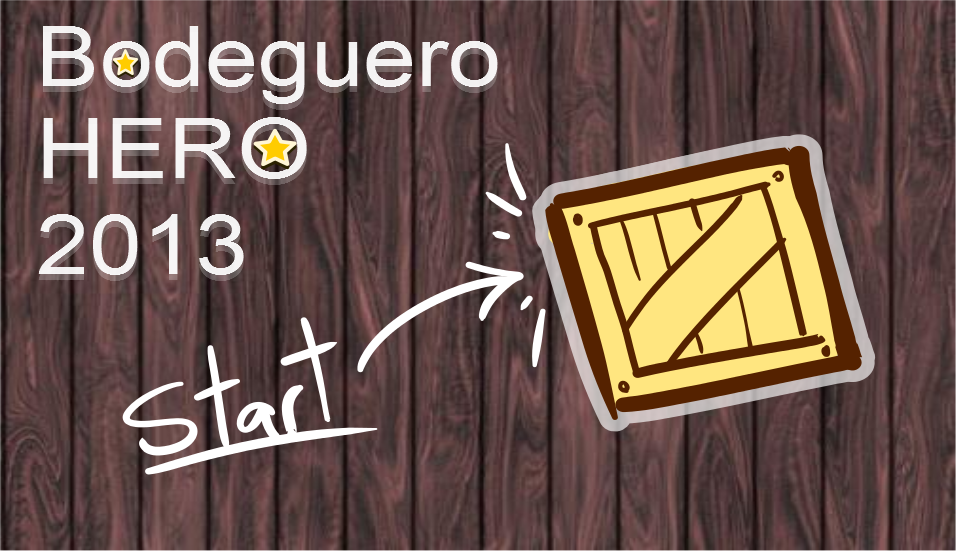
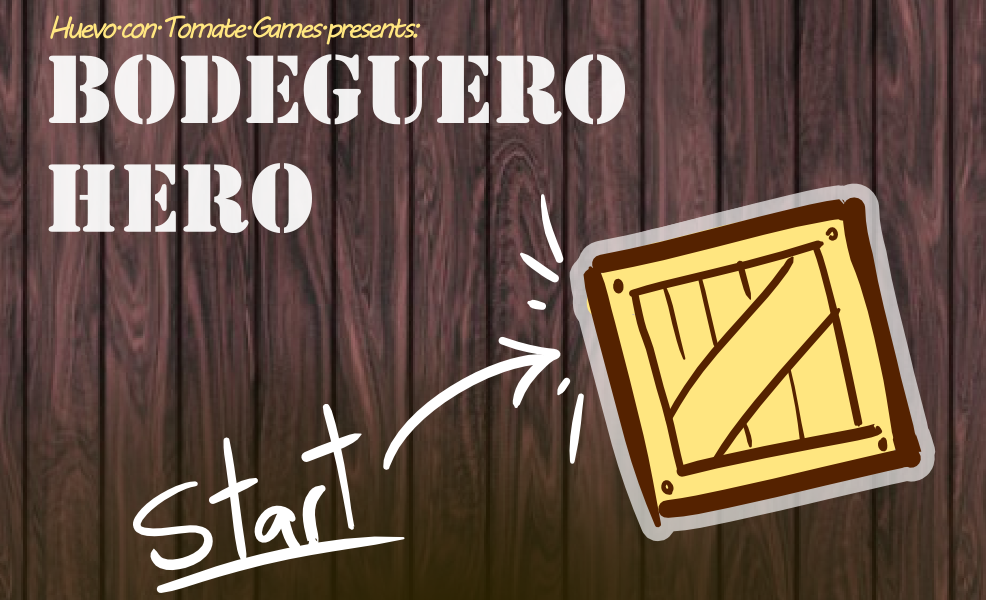
Modificaciones en Stylesheet e interfaz. Ciertas cosas de Refactor. Se hizo el boton que regrese atras y el que lleva al menu inicio. Se han modificado las imagenes de fondo y otras.

diff --git a/BodegueroHero/mainwindow.cpp b/BodegueroHero/mainwindow.cpp
@@ -69,22 +69,16 @@ void MainWindow::cargarPerfil()
 
 }
 
-void MainWindow::recibir(const QString & txt)
-{
-
-   this->CurrentUser=txt;
-   ui->screenManager->setCurrentIndex(0);
-
-}
-
-
-
-
 MainWindow::~MainWindow()
 {
     delete ui;            
 }
 
+void MainWindow::recibir(const QString & txt)
+{
+   this->CurrentUser=txt;
+   ui->screenManager->setCurrentIndex(0);
+}
 
 void MainWindow::on_pushButton_clicked()
 {
@@ -109,20 +103,30 @@ void MainWindow::on_btJugar_clicked()
     ui->screenManager->setCurrentIndex(4);
 }
 
-void MainWindow::on_btBack_clicked()
-{
-     ui->screenManager->setCurrentIndex(0);
-}
-
-void MainWindow::on_btnBackFromP4_clicked()
-{
-    //!!Comment: Moises
-    //Presione Back en la pagina4 (pantalla de dificultades)
-    //Regreso a la pantalla del menu de opciones (pagina1)
-    this->ui->screenManager->setCurrentIndex(1);
-}
-
 void MainWindow::on_cmdStart_clicked()
 {
     this->ui->screenManager->setCurrentIndex(1);
 }
+
+void MainWindow::on_actionHome_triggered()
+{
+    //EH: si esta en la pantalla de juegos preguntarle si quiere abandonar el juego.
+    this->ui->screenManager->setCurrentIndex(0);
+}
+
+void MainWindow::on_actionBack_triggered()
+{
+    int index = this->ui->screenManager->currentIndex();
+
+    if(index>0)
+    {
+        if(index == 7)// si esta en la pantalla de jugar
+        {
+            //EH: Preguntar si realmente quiere abandonar el juego.
+        }
+        else
+            //EH: Validar ciertas cosas, como dejar en blanco textbox, etc
+            this->ui->screenManager->setCurrentIndex(index-1);
+    }
+}
+

diff --git a/BodegueroHero/mainwindow.h b/BodegueroHero/mainwindow.h
@@ -23,9 +23,9 @@ private:
     Ui::MainWindow *ui;
 
 private slots:
+    void on_actionBack_triggered();
+    void on_actionHome_triggered();
     void on_cmdStart_clicked();
-    void on_btnBackFromP4_clicked();
-    void on_btBack_clicked();
     void on_btJugar_clicked();
     void on_btCrear_clicked();
     void on_btSeleccionar_clicked();
